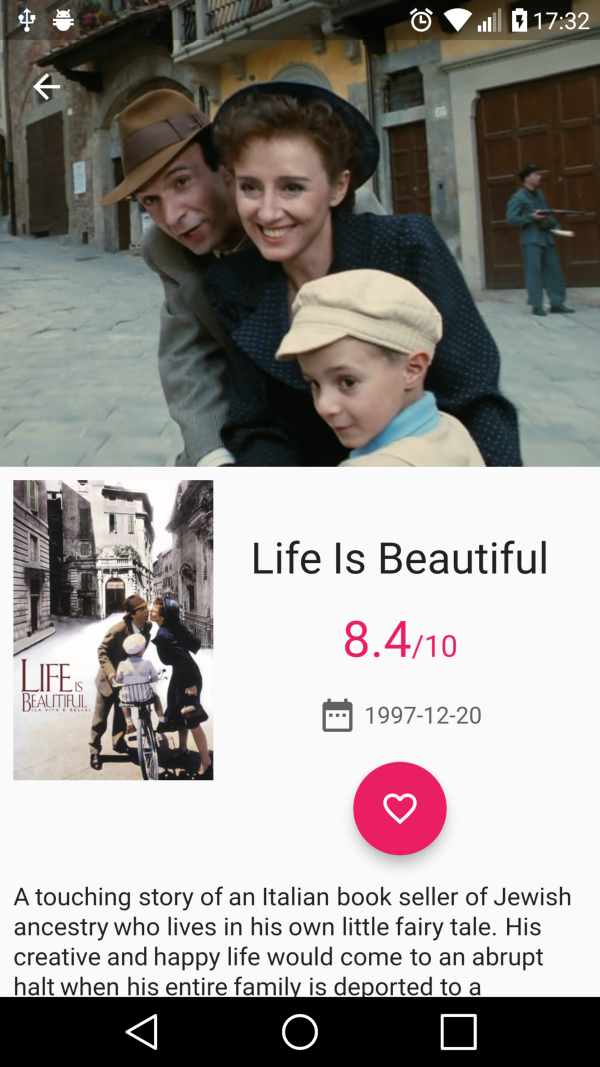
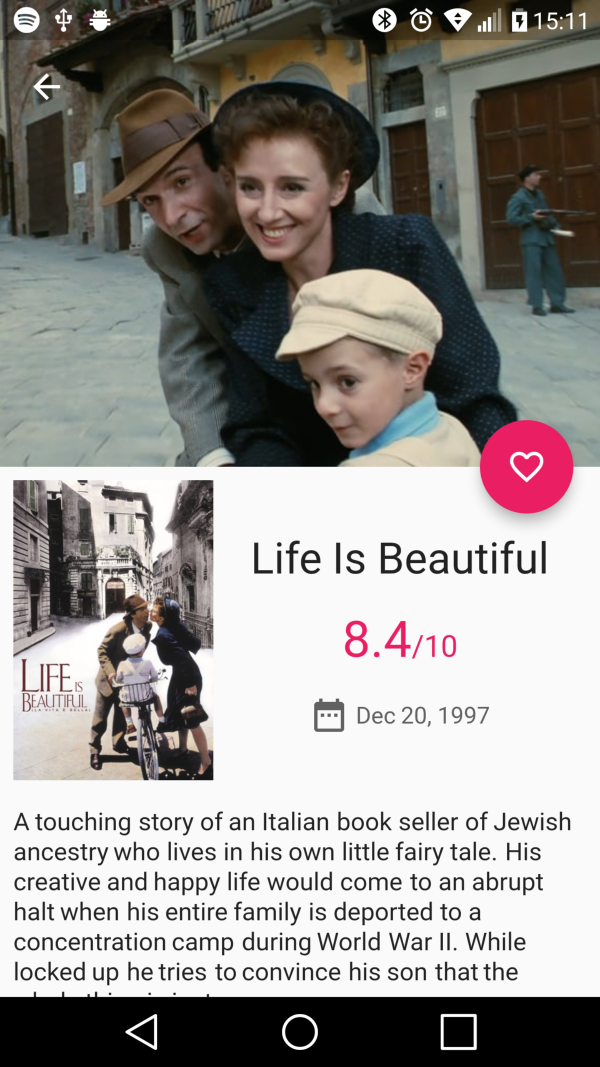
Add dynamic sliver fab & format date in detail

diff --git a/lib/ui/movie_detail/movie_detail_page.dart b/lib/ui/movie_detail/movie_detail_page.dart
@@ -16,7 +16,9 @@ import 'package:popular_movies/ui/movie_detail/genre_tag.dart';
 import 'package:popular_movies/ui/movie_detail/reviews_section.dart';
 import 'package:popular_movies/ui/movie_detail/similar_section.dart';
 import 'package:popular_movies/ui/movie_detail/videos_section.dart';
+import 'package:popular_movies/utils/date_utils.dart';
 import 'package:popular_movies/utils/error_utils.dart';
+import 'package:sliver_fab/sliver_fab.dart';
 
 class MovieDetailPage extends StatefulWidget {
   final Movie movie;
@@ -57,7 +59,9 @@ class MovieDetailPageState extends State<MovieDetailPage> {
     String backdropUrl =
         "$imageUrl$pathBackdropW780${widget.movie.backdropPath}";
     return Scaffold(
-      body: CustomScrollView(
+      body: SliverFab(
+        floatingActionButton: _buildFavoriteButton(),
+        expandedHeight: 256.0,
         slivers: <Widget>[
           SliverAppBar(
             expandedHeight: 256.0,
@@ -232,7 +236,7 @@ class MovieDetailPageState extends State<MovieDetailPage> {
                       ),
                       SizedBox(width: 4.0),
                       Text(
-                        widget.movie.releaseDate,
+                        DateUtils.getFormattedDate(widget.movie.releaseDate),
                         style: TextStyle(
                           color: Colors.grey.shade700,
                         ),
@@ -242,7 +246,6 @@ class MovieDetailPageState extends State<MovieDetailPage> {
                   SizedBox(
                     height: 16.0,
                   ),
-                  _buildFavoriteButton(),
                 ],
               ),
             ),

diff --git a/lib/utils/date_utils.dart b/lib/utils/date_utils.dart
@@ -10,4 +10,15 @@ class DateUtils {
       return dateStr;
     }
   }
+
+  static String getFormattedDate(String dateStr) {
+    try {
+      var formatter = new DateFormat('yyyy-MM-dd');
+      DateTime date = formatter.parseStrict(dateStr);
+      var newFormatter = DateFormat('MMM dd, yyyy');
+      return newFormatter.format(date);
+    } catch (error) {
+      return dateStr;
+    }
+  }
 }
